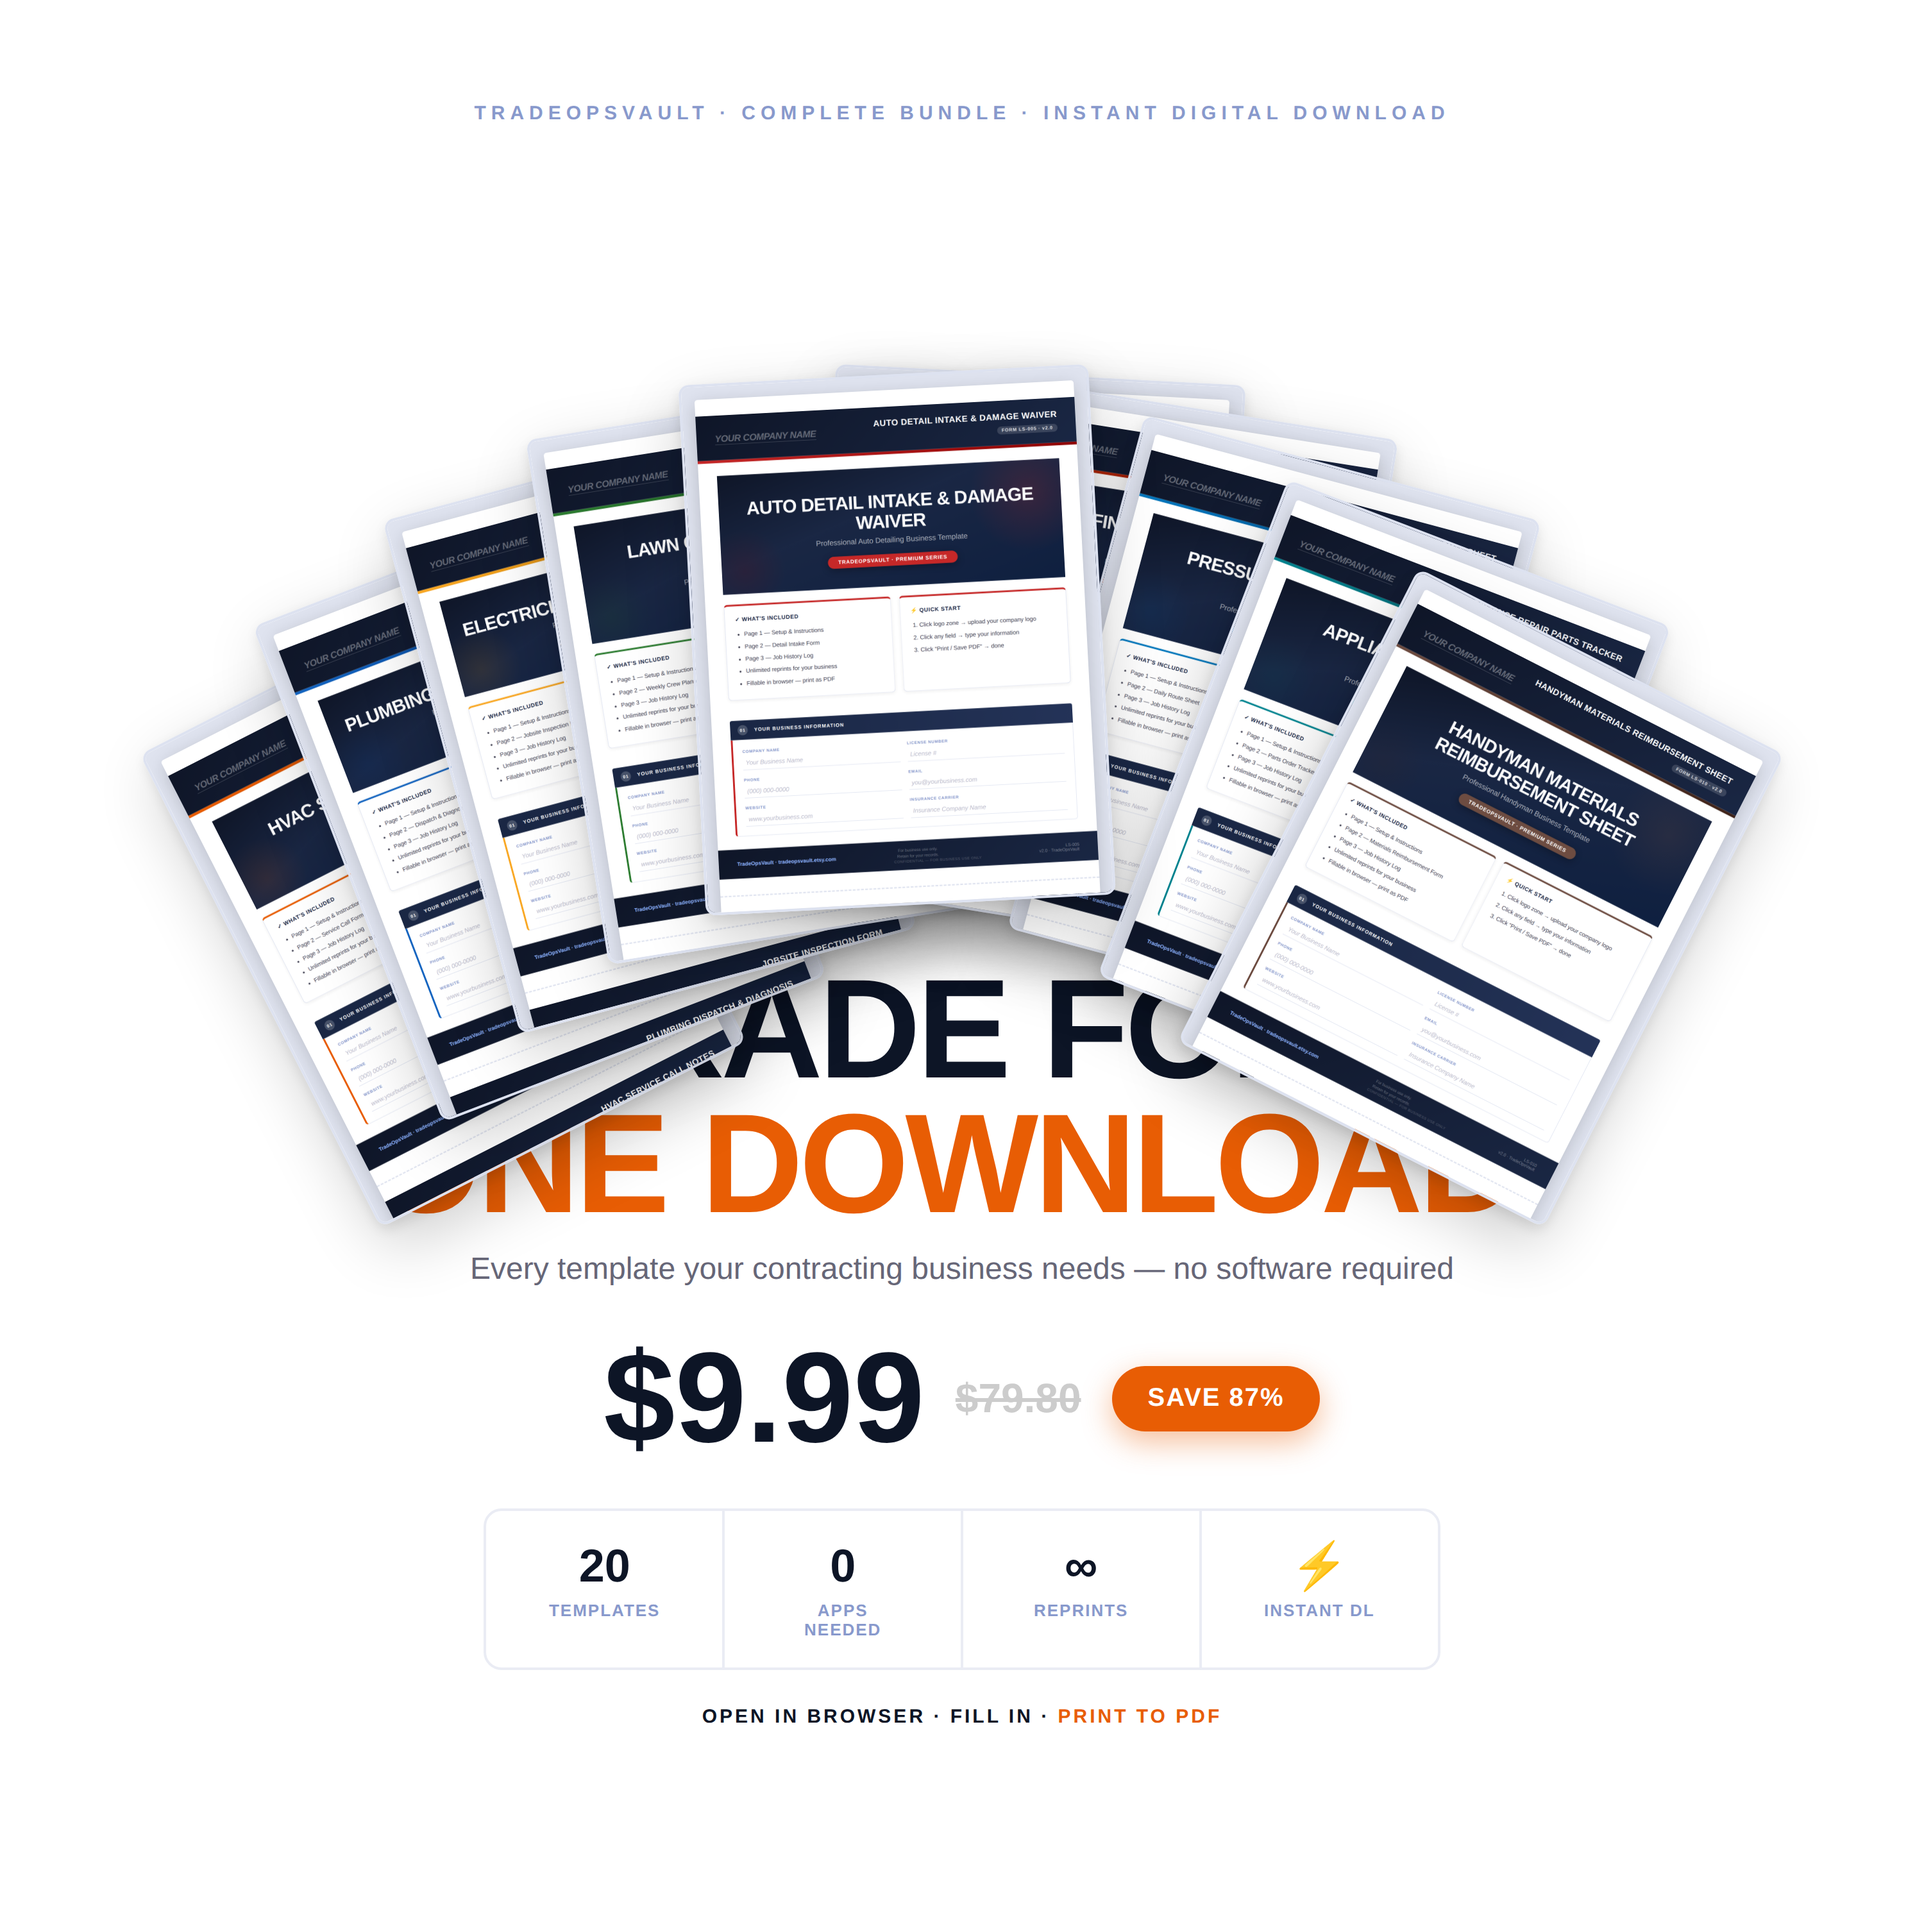
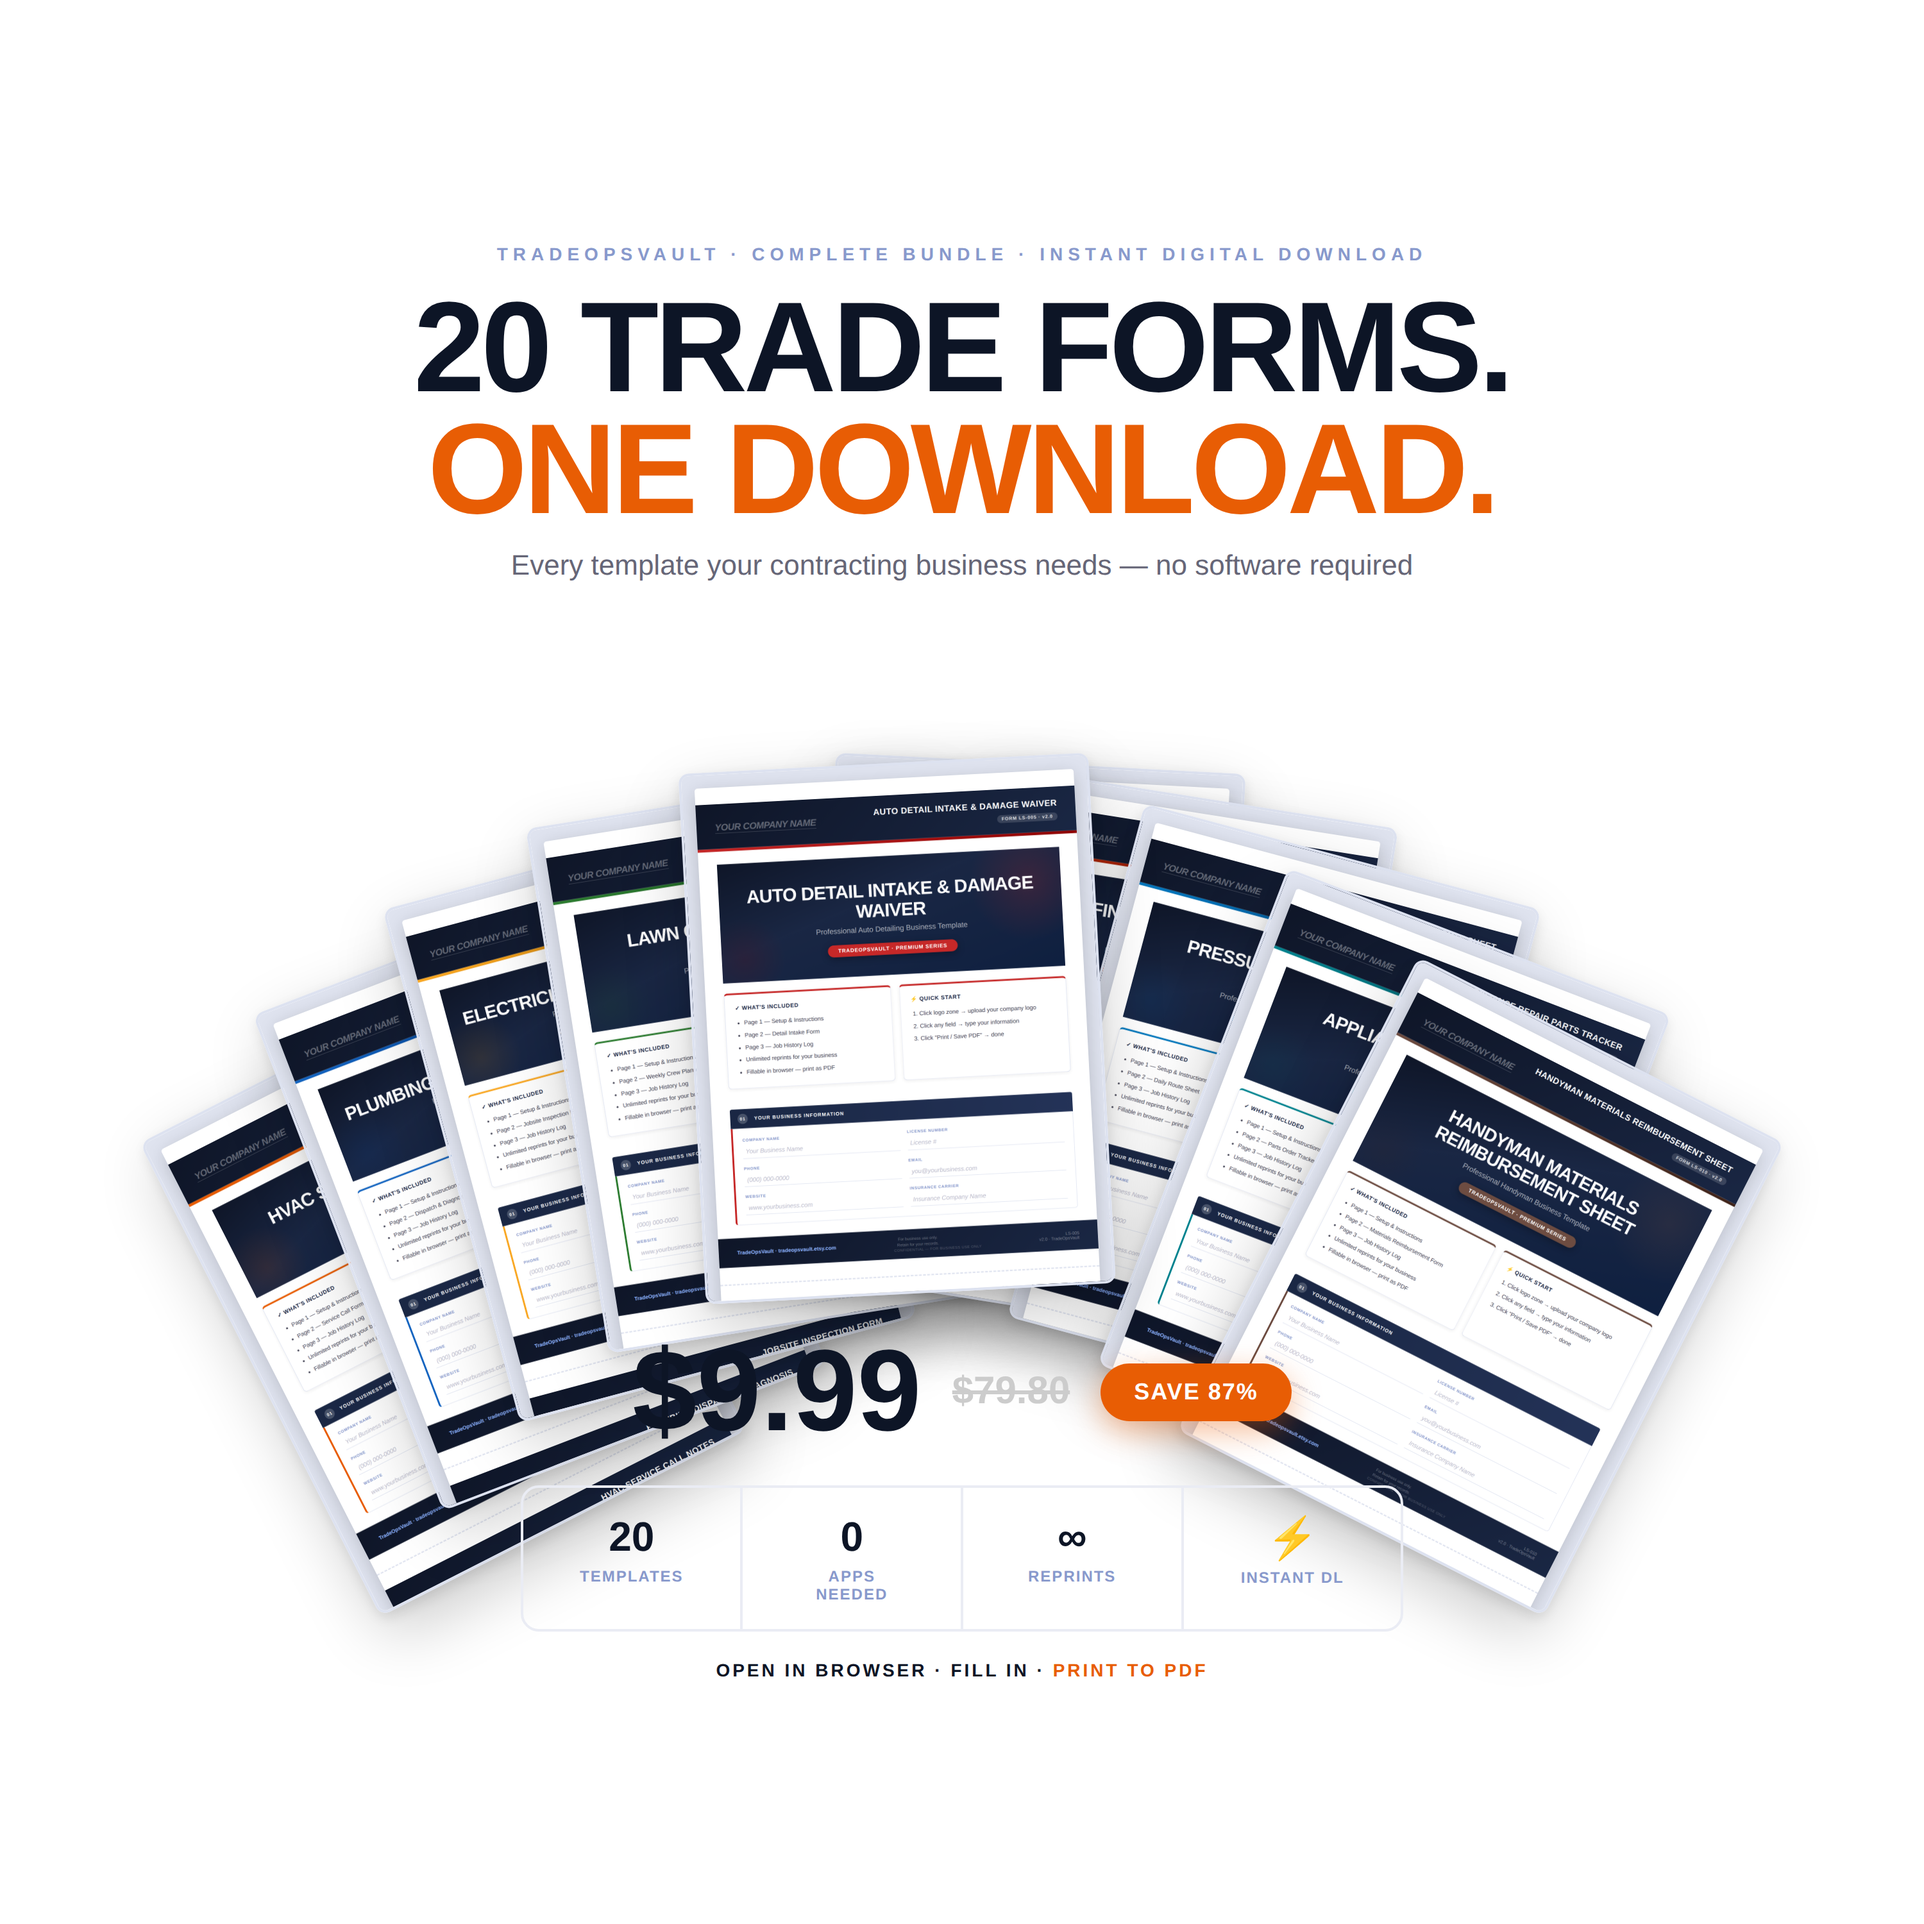
Fix bundle hero: title above fan, nothing cut off

diff --git a/generate-bundle-mockup.js b/generate-bundle-mockup.js
@@ -65,63 +65,68 @@ async function generate() {
 body {
   width:1500px; height:1500px;
   background:#fff;
-  display:flex; flex-direction:column; align-items:center; justify-content:flex-start;
+  display:flex; flex-direction:column; align-items:center; justify-content:center;
   font-family:'Segoe UI',Arial,sans-serif;
-  padding-top:80px;
+  padding:60px 80px;
+  gap:0;
 }
 .top-tag {
-  font-size:15px; font-weight:800; letter-spacing:4px;
-  text-transform:uppercase; color:#8899cc; margin-bottom:24px;
-}
-.fan {
-  position:relative; width:1400px; height:580px;
-  display:flex; align-items:flex-end; justify-content:center;
-  margin-bottom:50px;
+  font-size:14px; font-weight:800; letter-spacing:4px;
+  text-transform:uppercase; color:#8899cc; margin-bottom:18px;
 }
 h1 {
-  font-size:110px; font-weight:900; color:#0d1526;
+  font-size:100px; font-weight:900; color:#0d1526;
   text-transform:uppercase; letter-spacing:-3px;
-  text-align:center; line-height:0.95; margin-bottom:16px;
+  text-align:center; line-height:0.95; margin-bottom:14px;
+  position:relative; z-index:30;
 }
 h1 span { color:#e85d04; }
 .sub {
-  font-size:24px; color:#667; text-align:center;
-  margin-bottom:36px; font-weight:500;
+  font-size:22px; color:#667; text-align:center;
+  margin-bottom:30px; font-weight:500; position:relative; z-index:30;
+}
+.fan {
+  position:relative; width:1340px; height:520px;
+  display:flex; align-items:flex-end; justify-content:center;
+  margin-bottom:36px; flex-shrink:0;
 }
 .price-row {
-  display:flex; align-items:center; gap:24px; margin-bottom:36px;
+  display:flex; align-items:center; gap:24px; margin-bottom:28px;
+  position:relative; z-index:30;
 }
 .price {
-  font-size:100px; font-weight:900; color:#0d1526; line-height:1;
+  font-size:90px; font-weight:900; color:#0d1526; line-height:1;
 }
 .was {
-  font-size:32px; color:#ccc; text-decoration:line-through; font-weight:600;
+  font-size:30px; color:#ccc; text-decoration:line-through; font-weight:600;
 }
 .save-badge {
-  background:#e85d04; color:#fff; padding:14px 28px;
-  border-radius:40px; font-size:20px; font-weight:900;
+  background:#e85d04; color:#fff; padding:12px 26px;
+  border-radius:40px; font-size:18px; font-weight:900;
   letter-spacing:1px; text-transform:uppercase;
   box-shadow:0 8px 24px rgba(232,93,4,0.4);
 }
 .features {
   display:flex; gap:0; border:2px solid #eaecf4; border-radius:14px; overflow:hidden;
+  position:relative; z-index:30;
 }
 .feat {
-  padding:22px 48px; text-align:center; border-right:2px solid #eaecf4; flex:1;
+  padding:20px 44px; text-align:center; border-right:2px solid #eaecf4; flex:1;
 }
 .feat:last-child { border-right:none; }
-.feat-num { font-size:36px; font-weight:900; color:#0d1526; }
-.feat-label { font-size:13px; color:#8899cc; font-weight:700; text-transform:uppercase; letter-spacing:1px; margin-top:6px; }
+.feat-num { font-size:32px; font-weight:900; color:#0d1526; }
+.feat-label { font-size:12px; color:#8899cc; font-weight:700; text-transform:uppercase; letter-spacing:1px; margin-top:5px; }
 .bottom-tag {
-  margin-top:28px; font-size:15px; font-weight:800;
+  margin-top:22px; font-size:14px; font-weight:800;
   letter-spacing:2px; text-transform:uppercase; color:#0d1526;
+  position:relative; z-index:30;
 }
 .bottom-tag span { color:#e85d04; }
 </style></head><body>
 <div class="top-tag">TradeOpsVault · Complete Bundle · Instant Digital Download</div>
-<div class="fan">${fanImgs}</div>
 <h1>20 Trade Forms.<br><span>One Download.</span></h1>
 <div class="sub">Every template your contracting business needs — no software required</div>
+<div class="fan">${fanImgs}</div>
 <div class="price-row">
   <div class="price">$9.99</div>
   <div class="was">$79.80</div>
